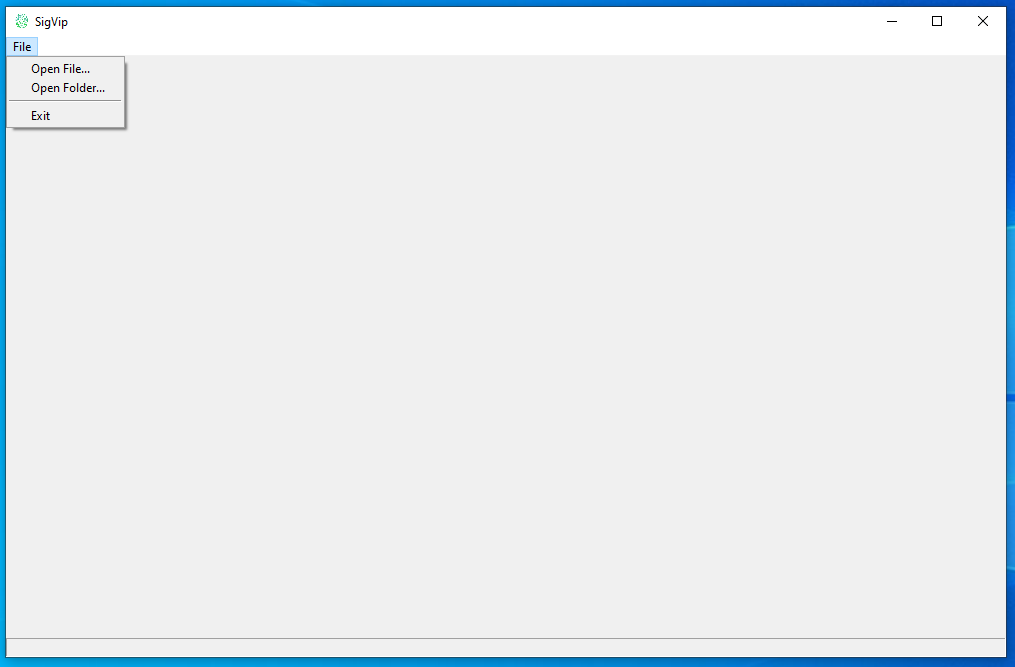
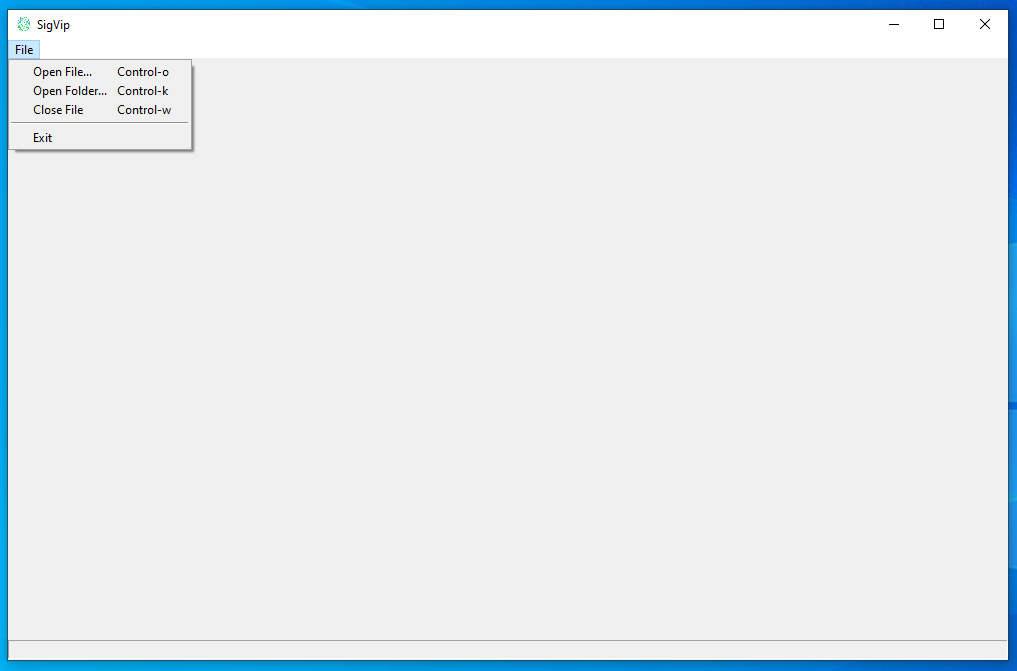
Hist. 3.4

diff --git a/Desktop SigVip Project/main.py b/Desktop SigVip Project/main.py
@@ -1,5 +1,6 @@
 from tkinter import *
 from tkinter.filedialog import askopenfilenames, askdirectory
+from tkinter import Scrollbar
 import pydicom as dicom
 import PIL.Image
 import PIL.ImageTk
@@ -38,6 +39,10 @@ class MainWindow(Frame):
         self.canvas.bind("<Button-2>", self.on_mouse_wheel_down)
         self.canvas.bind("<ButtonRelease-2>", self.on_mouse_wheel_up)
         #  self.canvas.bind("<Configure>", self.resize)
+
+        #Data
+        self.gg = LabelFrame(self.parent, bd=0, highlightthickness=0)
+        self.gg.pack(side=BOTTOM)
         
         self.status = StatusBar(self.parent)
         self.status.pack(side=BOTTOM, fill=X)
@@ -48,10 +53,14 @@ class MainWindow(Frame):
 
         filemenu = Menu(menubar, tearoff=False, bd=0)
         menubar.add_cascade(label="File", menu=filemenu)
-        filemenu.add_command(label="Open File...", command=self.on_open)
-        filemenu.add_command(label="Open Folder...", command=self.open_dir)
-        filemenu.add_command(label="Close File", command=self.close_image)
-        
+        filemenu.add_command(label="Open File...", accelerator = 'Control-o', command=self.on_open)
+        filemenu.add_command(label="Open Folder...", accelerator = 'Control-k', command=self.open_dir)
+        filemenu.add_command(label="Close File", accelerator = 'Control-w', command=self.close_image)
+
+        self.parent.bind_all('<Control-o>', self.on_open)
+        self.parent.bind_all('<Control-k>', self.open_dir)
+        self.parent.bind_all('<Control-w>', self.close_image)
+
         filemenu.add_separator()
         filemenu.add_command(label="Exit", command=self.on_exit)
 
@@ -72,8 +81,9 @@ class MainWindow(Frame):
         self.parent.geometry(newsize)
         self.parent.minsize(self.image.width, self.image.height + StatusBar.height)
 
-    def close_image(self):
+    def close_image(self,event=None):
         self.canvas.delete('all')
+        #self.details.grid_forget(self)
 
     def resize(self, event):
         if self.image is None:
@@ -101,7 +111,7 @@ class MainWindow(Frame):
 
             self.show_image(self.imager.get_current_image())
 
-    def on_open(self):
+    def on_open(self,event = None):
         filenames = askopenfilenames(filetypes=(("DICOM files", "*.dcm"),("All files", "*.*")))
 
         datasets = []
@@ -113,9 +123,10 @@ class MainWindow(Frame):
                 filenames.remove(file)
 
         self.imager = Imager(datasets)
+        self.dicom_details(datasets)
         self.show_image(self.imager.get_current_image())
 
-    def open_dir(self):
+    def open_dir(self,event = None):
         f = askdirectory()
 
         os.chdir(f)
@@ -143,7 +154,50 @@ class MainWindow(Frame):
                 pass
 
         self.imager = Imager(datasets)
+        self.dicom_details(datasets)
         self.show_image(self.imager.get_current_image())
+
+    def dicom_details(self, datasets):
+        scrollbar = Scrollbar(self.gg)
+        scrollbar.grid(row=0, column=1, sticky='ns')
+
+        details = Listbox(self.gg, width=200, height=5, yscrollcommand=scrollbar.set)
+        details.grid(row=0, column=0, sticky='ns')
+        scrollbar.config(command = details.yview)
+
+        # Mostrar informacion de las imagenes.
+        try:
+            details.insert(END,'Patient Name: '+str(datasets[0].PatientName)) # Patient Name
+        except:
+            details.insert(END,'Patient Name: Anonymous')
+        try:
+            details.insert(END,'Patient ID: '+str(datasets[0].PatientID)) # Patient ID
+        except:
+            details.insert(END,'Patient ID: Unknown')
+        try:
+            details.insert(END,'Patient Age: '+str(datasets[0].PatientAge)) # Patient Age
+        except:
+            details.insert(END,'Patient Age: Unknown')
+        try:
+            details.insert(END,'Patient Sex: '+str(datasets[0].PatientSex)) # Patient Sex
+        except:
+            details.insert(END,'Patient Sex: Unknown')
+        try:
+            details.insert(END,'Institution: '+str(datasets[0].InstitutionName)) # InstitutionName
+        except:
+            details.insert(END,'Institution: Unknown')
+        try:
+            details.insert(END,'Date: '+str(datasets[0].InstanceCreationDate)) # Date
+        except:
+            details.insert(END,'Date: Unknown')
+        try:
+            details.insert(END,'Modality: '+str(datasets[0].Modality)) # Modality
+        except:
+           details.insert(END,'Modality: Unknown')
+        try:
+            details.insert(END,'Manufacturer: '+str(datasets[0].Manufacturer)) # Manufacturer
+        except:
+            details.insert(END,'Manufacturer: Unknown')
         
     def on_exit(self):
         self.quit()
@@ -233,7 +287,7 @@ class StatusBar(Frame):
 def main():
     root = Tk()
     root.minsize(1000, 600)
-    root.geometry("600x400+150+25")
+    root.geometry("1000x600+150+25")
     root.iconbitmap('img/favicon_96.ico')
     app = MainWindow(root)
 
